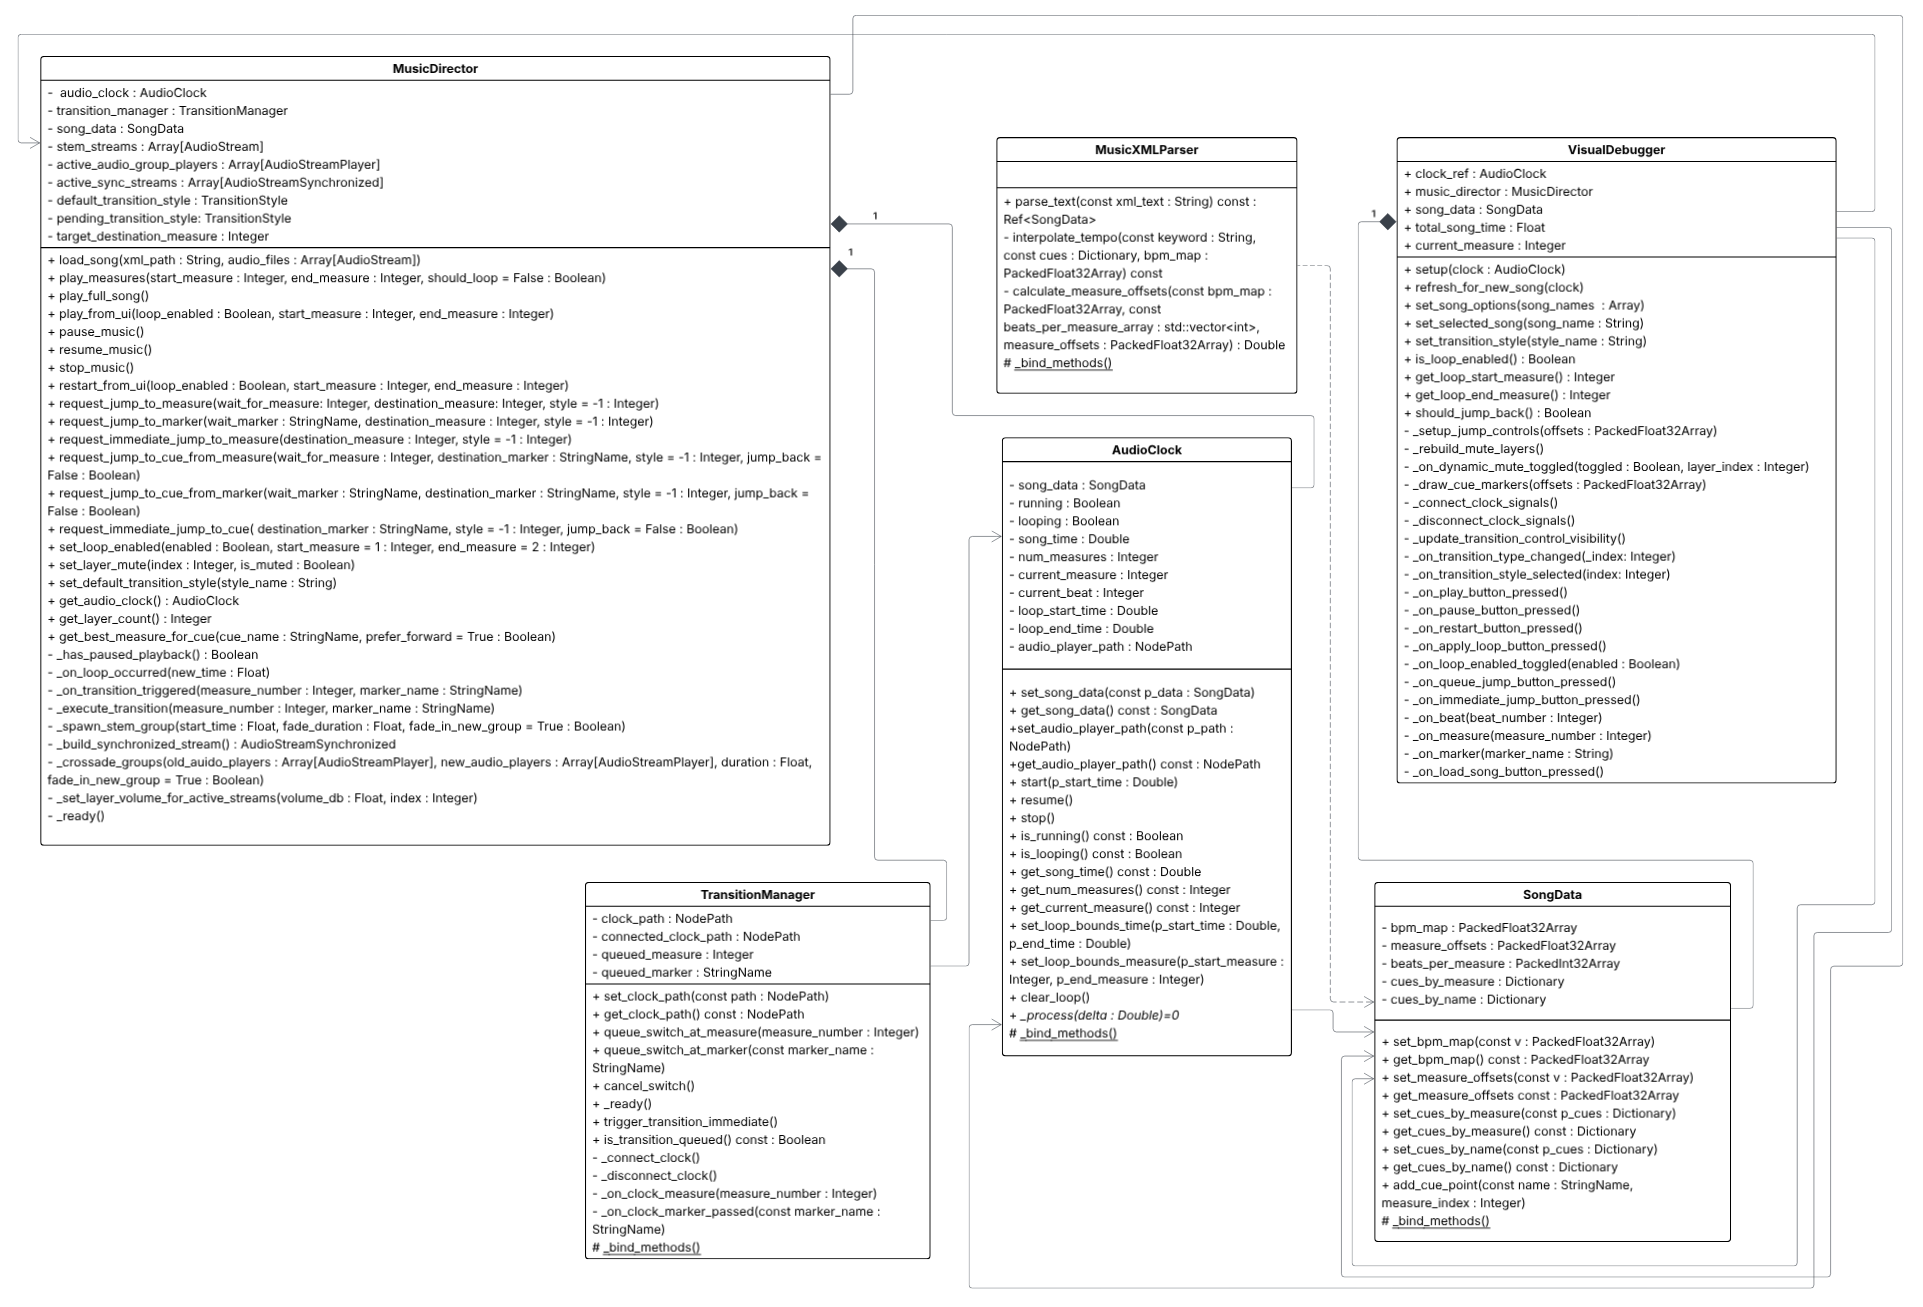
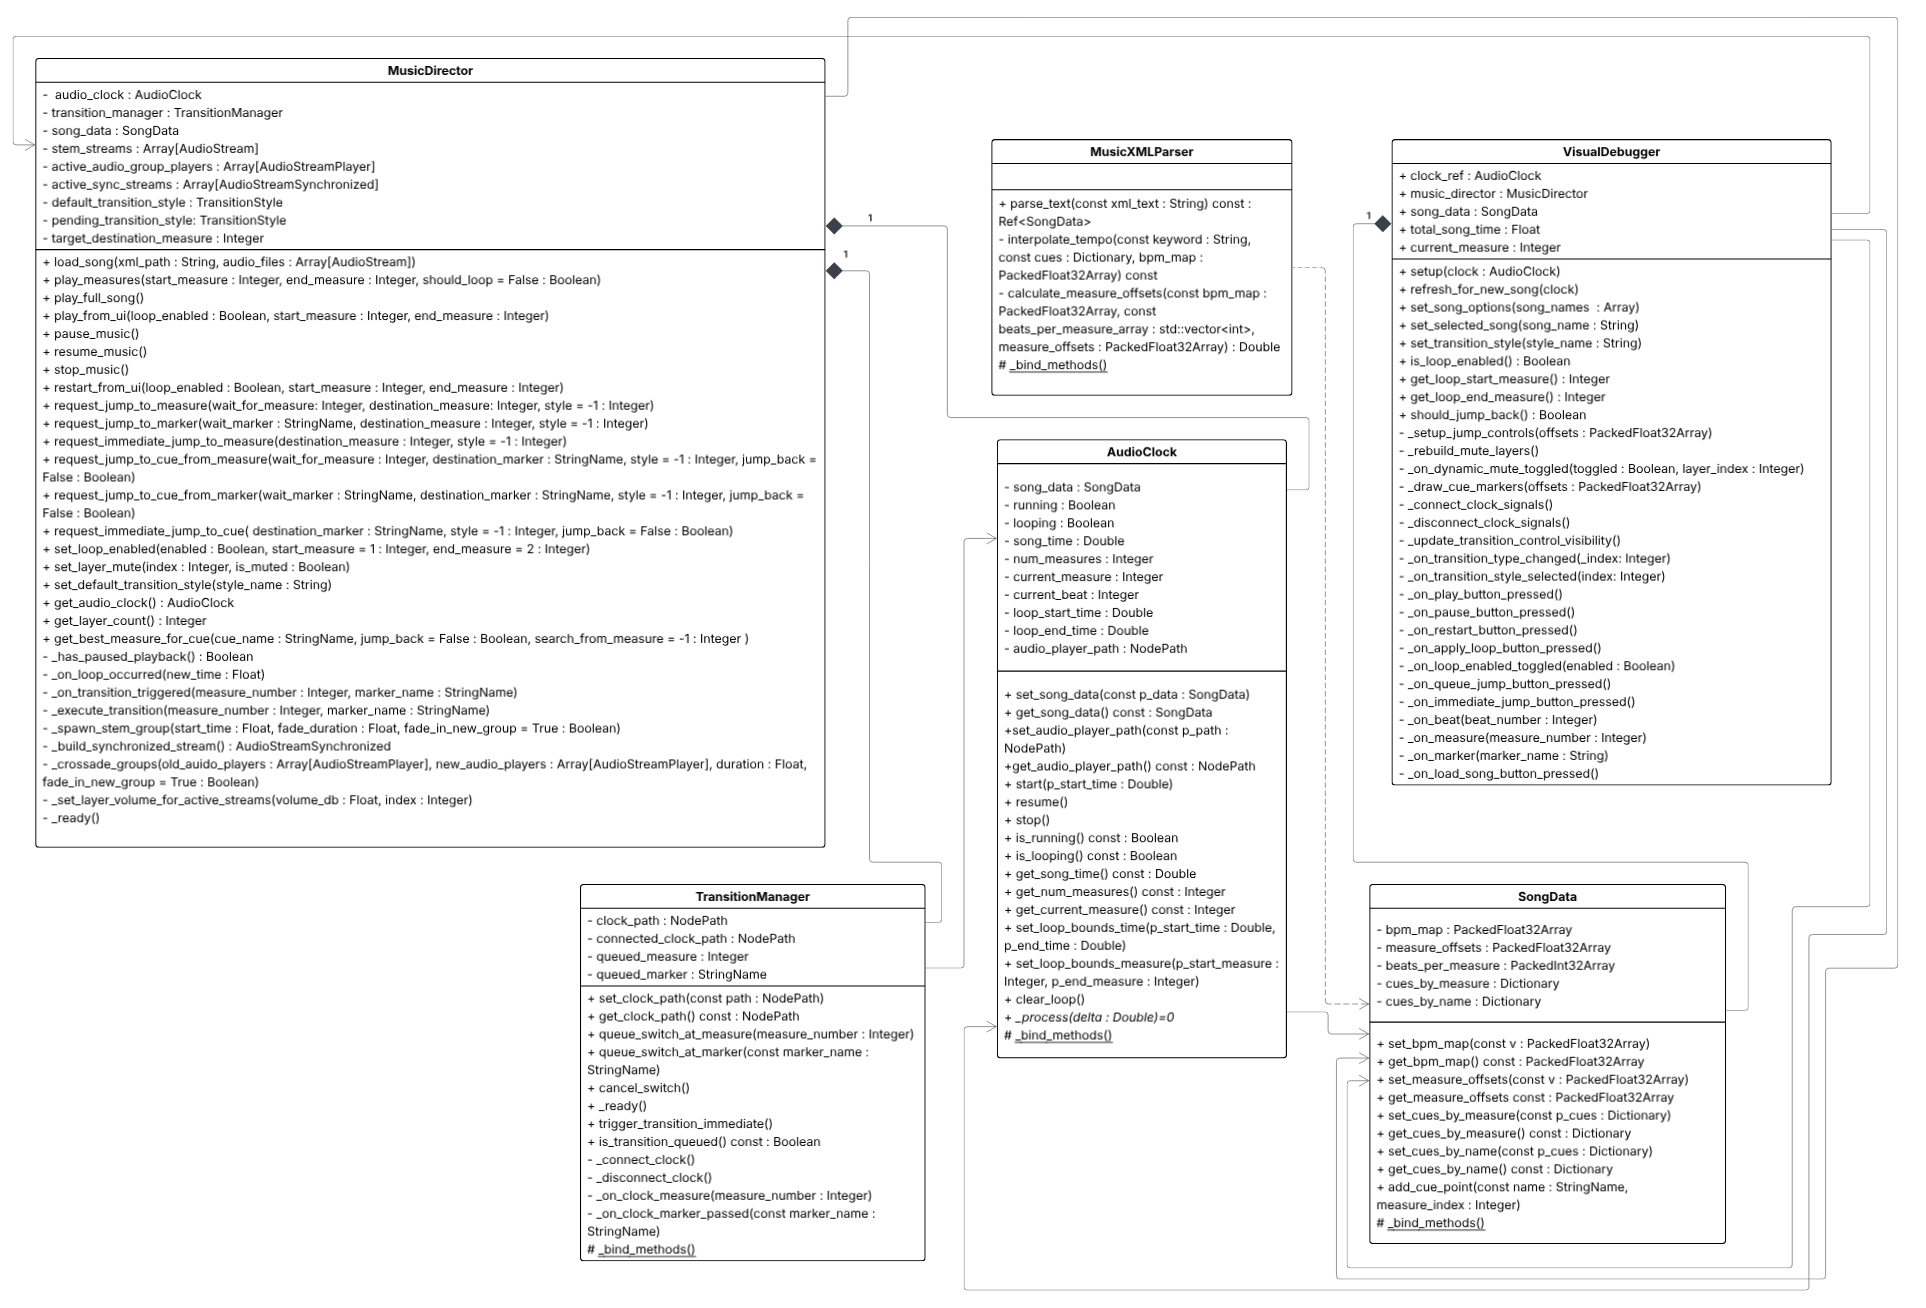
Fixed cue jump-back resolution
- fixed repeated cue resolution for immediate and queued cue jumps
- corrected jump_back behavior in get_best_measure_for_cue()
- updated wrapper methods for cue-based transition requests
- updated MusicDirector docs and class diagram with latest cue-resolution update

diff --git a/docs/markdown/gdscript/MusicDirector.md b/docs/markdown/gdscript/MusicDirector.md
@@ -120,18 +120,24 @@ If `jump_back` is `true`, repeated cue names resolve to the nearest previous occ
 ### `request_jump_to_cue_from_marker(wait_marker: StringName, destination_marker: StringName, style: int = -1, jump_back: bool = false) -> void`
 Queues a cue-triggered jump whose destination is also resolved from a cue name.
 
+For queued cue-to-cue transitions, the destination cue is resolved relative to the trigger point's measure, rather than the current playback position, so repeated cue names advance or rewind correctly.
+
 ### `request_immediate_jump_to_cue(destination_marker: StringName, style: int = -1, jump_back: bool = false) -> void`
 Immediately jumps to a destination cue resolved relative to the current playback position.
+
+By default this resolves to the nearest forward occurrence. If `jump_back` is `true`, it resolves to the nearest previous occurrence.
 
 ### `set_default_transition_style(style_name: String) -> void`
 Sets the default transition style used by future requests when no explicit override is provided.
 
 Supported names are `"crossfade"` and `"seamless"`.
 
-### `get_best_measure_for_cue(cue_name: StringName, prefer_forward: bool = true) -> int`
-Resolves a cue name to the best matching destination measure relative to the current song position.
+### `get_best_measure_for_cue(cue_name: StringName, jump_back: bool = false, search_from_measure: int = -1) -> int`
+Resolves a cue name to the best matching destination measure relative to a given
+search measure, or the current song position if none is provided.
 
-By default this prefers the nearest forward occurrence. If `prefer_forward` is `false`, it prefers the nearest previous occurrence.
+By default this prefers the nearest forward occurrence. If `jump_back`
+is `true`, it prefers the nearest previous occurrence.
 
 ### `set_layer_mute(index: int, is_muted: bool) -> void`
 Smoothly mutes or unmutes a specific synchronized stem layer.
